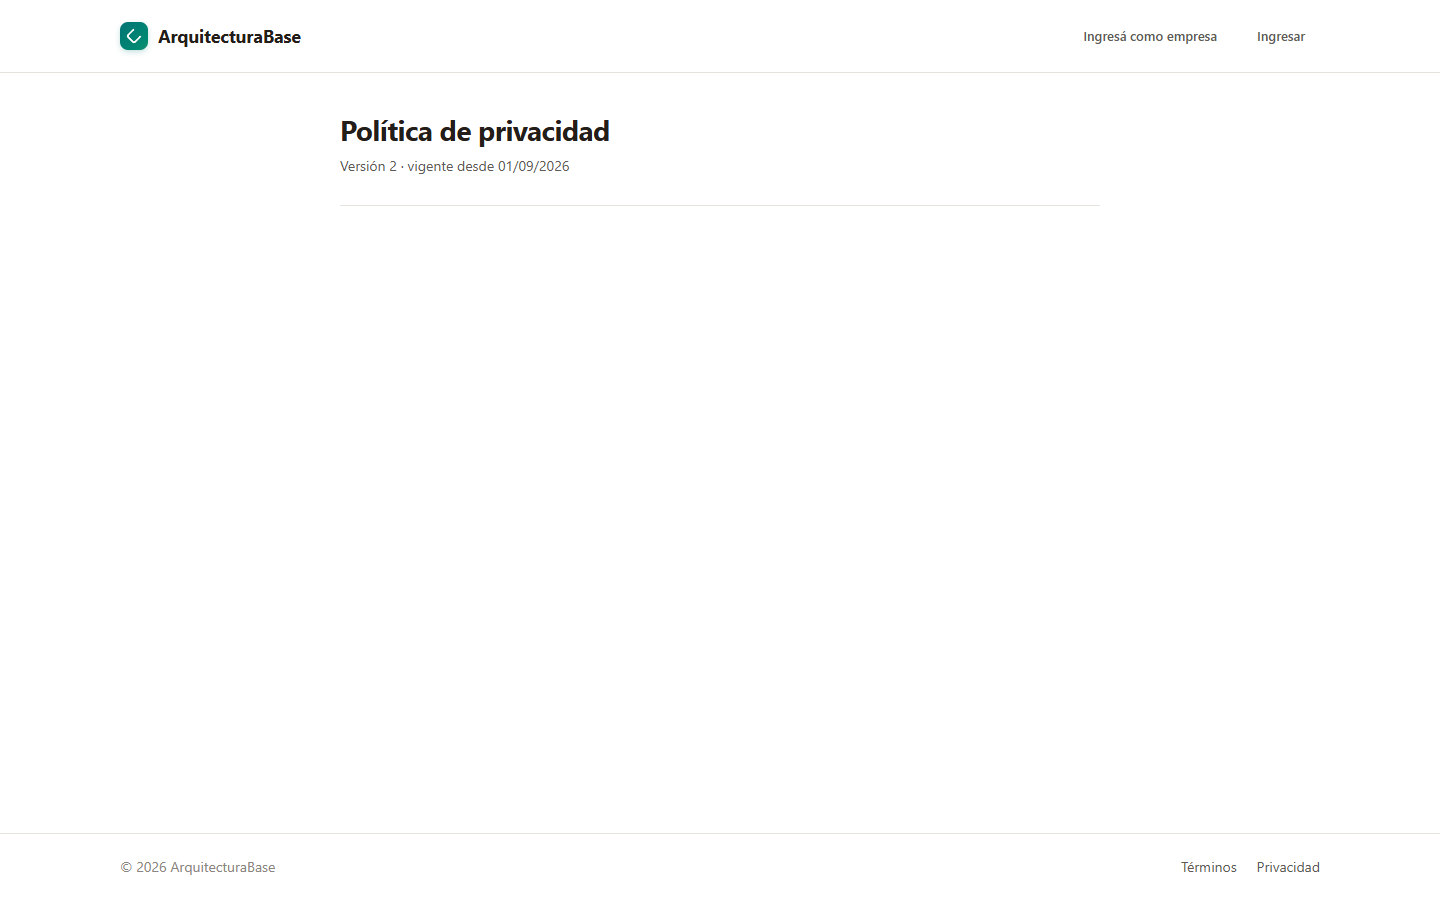
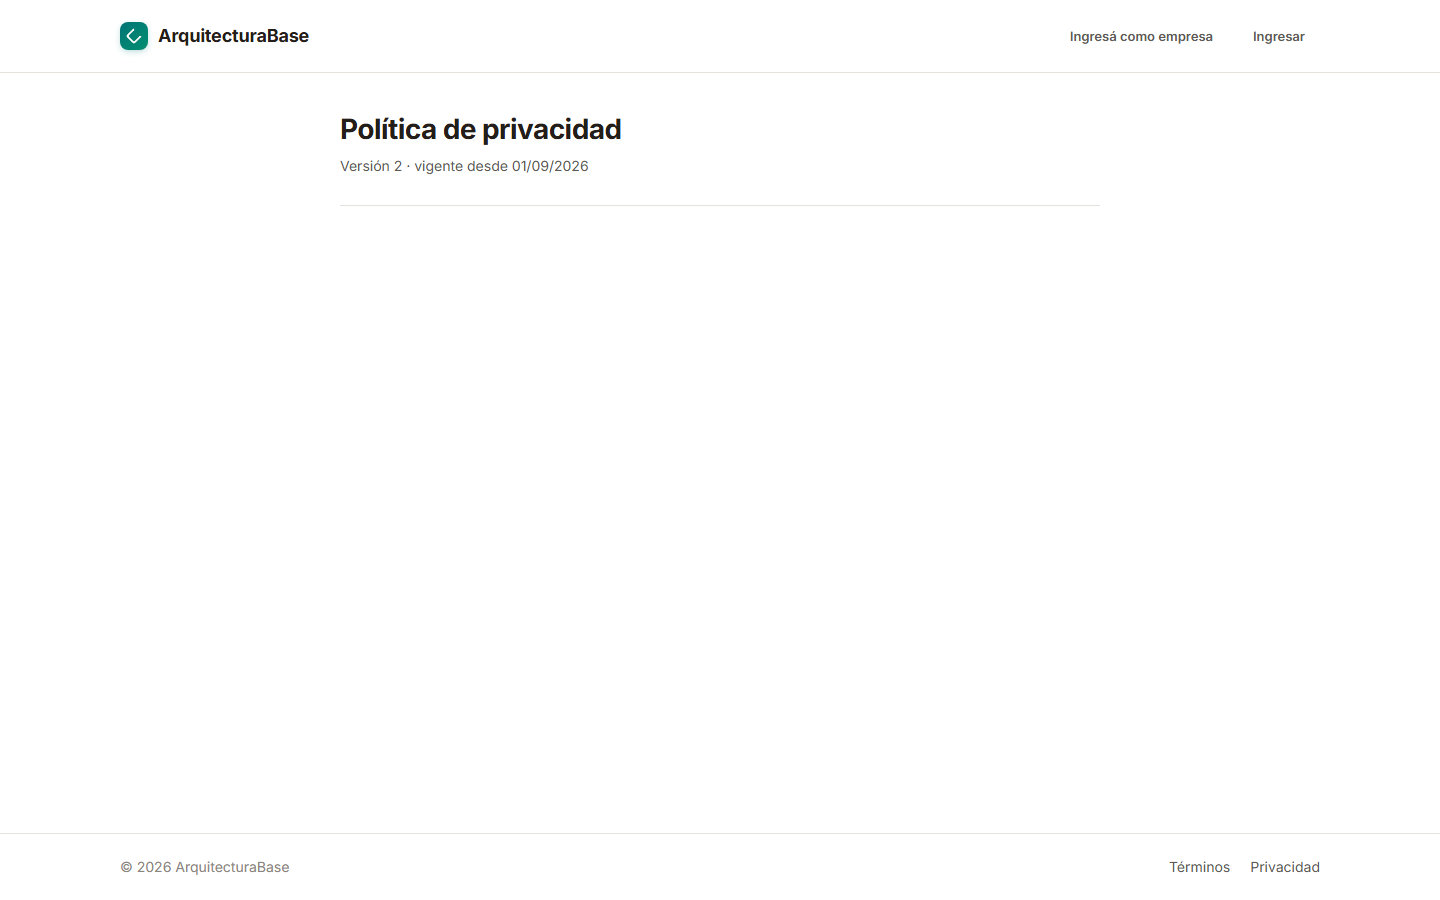
fix(front): comparar portada con Inter local y CTA aprobado

diff --git a/src/areas/public/site/pages/LandingPage.tsx b/src/areas/public/site/pages/LandingPage.tsx
@@ -4,7 +4,7 @@ import { useTranslation } from "react-i18next";
 import { Link } from "react-router";
 
 const wrap = "mx-auto max-w-[1280px] px-4 md:px-10";
-const primary = "inline-flex min-h-12 items-center justify-center rounded-[10px] bg-[var(--marca)] px-6 text-[15px] font-semibold text-[var(--lado-activo)]";
+const primary = "relative inline-flex min-h-10 items-center justify-center rounded-[10px] bg-[var(--marca)] px-6 text-[15px] font-semibold text-[var(--lado-activo)] after:absolute after:-inset-y-0.5 after:inset-x-0 after:content-['']";
 const secondary = "inline-flex min-h-12 items-center justify-center rounded-[10px] border border-[var(--t3)] bg-[var(--lado-activo)] px-6 text-[15px] font-semibold text-[var(--marca)]";
 
 function ProfilePreview() {
@@ -37,7 +37,7 @@ export function LandingPage() {
       </div>
     </div></section>
     <section id="empezar" className="py-12 md:py-20"><div className={wrap}><h2 className="text-center text-[28px] leading-[1.15] font-bold tracking-[-0.025em] md:text-[36px]">{t("landing.steps.title")}</h2><div className="mt-7 grid gap-4 md:mt-12 md:grid-cols-3 md:gap-6">{([1, 2, 3] as const).map((number) => <div key={number} className="flex flex-col gap-2.5"><span className="flex size-9 items-center justify-center rounded-full bg-[var(--marca)] font-bold text-[var(--lado-activo)]">{number}</span><h3 className="mt-1.5 text-[19px] font-bold">{t(`landing.steps.${number}.title`)}</h3><p className="text-[var(--t2)]">{t(`landing.steps.${number}.detail`)}</p></div>)}</div></div></section>
-    <section className="mx-4 mb-10 rounded-[24px] bg-[linear-gradient(150deg,var(--marca),var(--marca-h))] px-5 py-9 text-center text-[var(--lado-activo)] md:mx-10 md:mb-20 md:p-16"><h2 className="text-[28px] font-bold tracking-[-0.025em] md:text-[38px]">{t("landing.final.title")}</h2><p className="mb-7 mt-3 text-[18px] text-[var(--lado-activo)]/85">{t("landing.final.detail")}</p><div className="flex flex-wrap justify-center gap-3"><Link to="/registro" className="inline-flex min-h-12 items-center justify-center rounded-[10px] bg-[var(--lado-activo)] px-6 text-[15px] font-semibold text-[var(--marca-tx)]">{t("landing.createAccount")}</Link></div></section>
+    <section className="mx-4 mb-10 rounded-[24px] bg-[linear-gradient(150deg,var(--marca),var(--marca-h))] px-5 py-9 text-center text-[var(--lado-activo)] md:mx-10 md:mb-20 md:p-16"><h2 className="text-[28px] font-bold tracking-[-0.025em] md:text-[38px]">{t("landing.final.title")}</h2><p className="mb-7 mt-3 text-[18px] text-[var(--lado-activo)]/85">{t("landing.final.detail")}</p><div className="flex flex-wrap justify-center gap-3"><Link to="/registro" className="relative inline-flex min-h-10 items-center justify-center rounded-[10px] bg-[var(--lado-activo)] px-6 text-[15px] font-semibold text-[var(--marca-tx)] after:absolute after:-inset-y-0.5 after:inset-x-0 after:content-['']">{t("landing.createAccount")}</Link></div></section>
   </>;
 }
 

diff --git a/src/areas/public/site/pages/LandingPage.test.tsx b/src/areas/public/site/pages/LandingPage.test.tsx
@@ -28,6 +28,9 @@ describe("LandingPage", () => {
     expect(within(main).getByText("Lucía Fernández")).toBeVisible();
     expect(within(main).getByText("Grupo Delta")).toBeVisible();
     expect(within(main).getAllByRole("link", { name: "Crear mi cuenta" })).toHaveLength(3);
+    expect(within(main).getAllByRole("link", { name: "Crear mi cuenta" })[0]).toHaveClass("min-h-10");
+    expect(within(main).getAllByRole("link", { name: "Crear mi cuenta" })[2]).toHaveClass("min-h-10");
+    expect(within(main).getAllByRole("link", { name: "Crear mi cuenta" })[0]).toHaveClass("after:-inset-y-0.5");
     expect(within(main).getByRole("heading", { name: "Registrá tu empresa" })).toBeVisible();
     expect(within(main).queryByRole("link", { name: "Registrá tu empresa" })).not.toBeInTheDocument();
     expect(within(main).getAllByText("Registrá tu empresa")).toHaveLength(1);

diff --git a/docs/design/capturas/etapa-3a/publicas/README.md b/docs/design/capturas/etapa-3a/publicas/README.md
@@ -9,3 +9,5 @@ Se compararon Portada, Términos y Privacidad con `Landing`, `Landing-Movil`, `L
 - En los documentos, el lienzo usa versiones ilustrativas 3 y 2, fecha 01/09/2026 y un cuerpo vacío. El seed de E3a publica la versión 1 de ambos documentos, vigente desde 29/09/2026, con texto explícito de demostración. La página muestra esos datos de la API, incluido el cuerpo; las capturas simulan esa respuesta sin sustituirla por la maqueta vacía.
 
 El encabezado, el orden del contenido, los controles restantes, los tonos y el pie se contrastaron con los pares PNG de esta carpeta. La variante Legal omite navegación de secciones y «Ayuda», como el tablero.
+
+Tras el hallazgo 65, el capturador sirve al lienzo el mismo Inter empaquetado que usa la app. Antes, el enlace externo de Google Fonts del HTML no cargaba en Playwright local y el lienzo se dibujaba con `system-ui`, por lo que los cortes de titulares y párrafos no eran una comparación de la misma fuente. Se regeneraron los seis pares de esta carpeta con Inter local: el párrafo de la portada corta en las mismas palabras. El CTA «Crear mi cuenta» del hero y del cierre mide 40 px visuales como `.b.lg` del tablero; su área tocable se extiende a 44 px en teléfono sin cambiar su aspecto. La posición vertical de la tarjeta móvil todavía difiere por el CTA empresarial oculto hasta E6.
